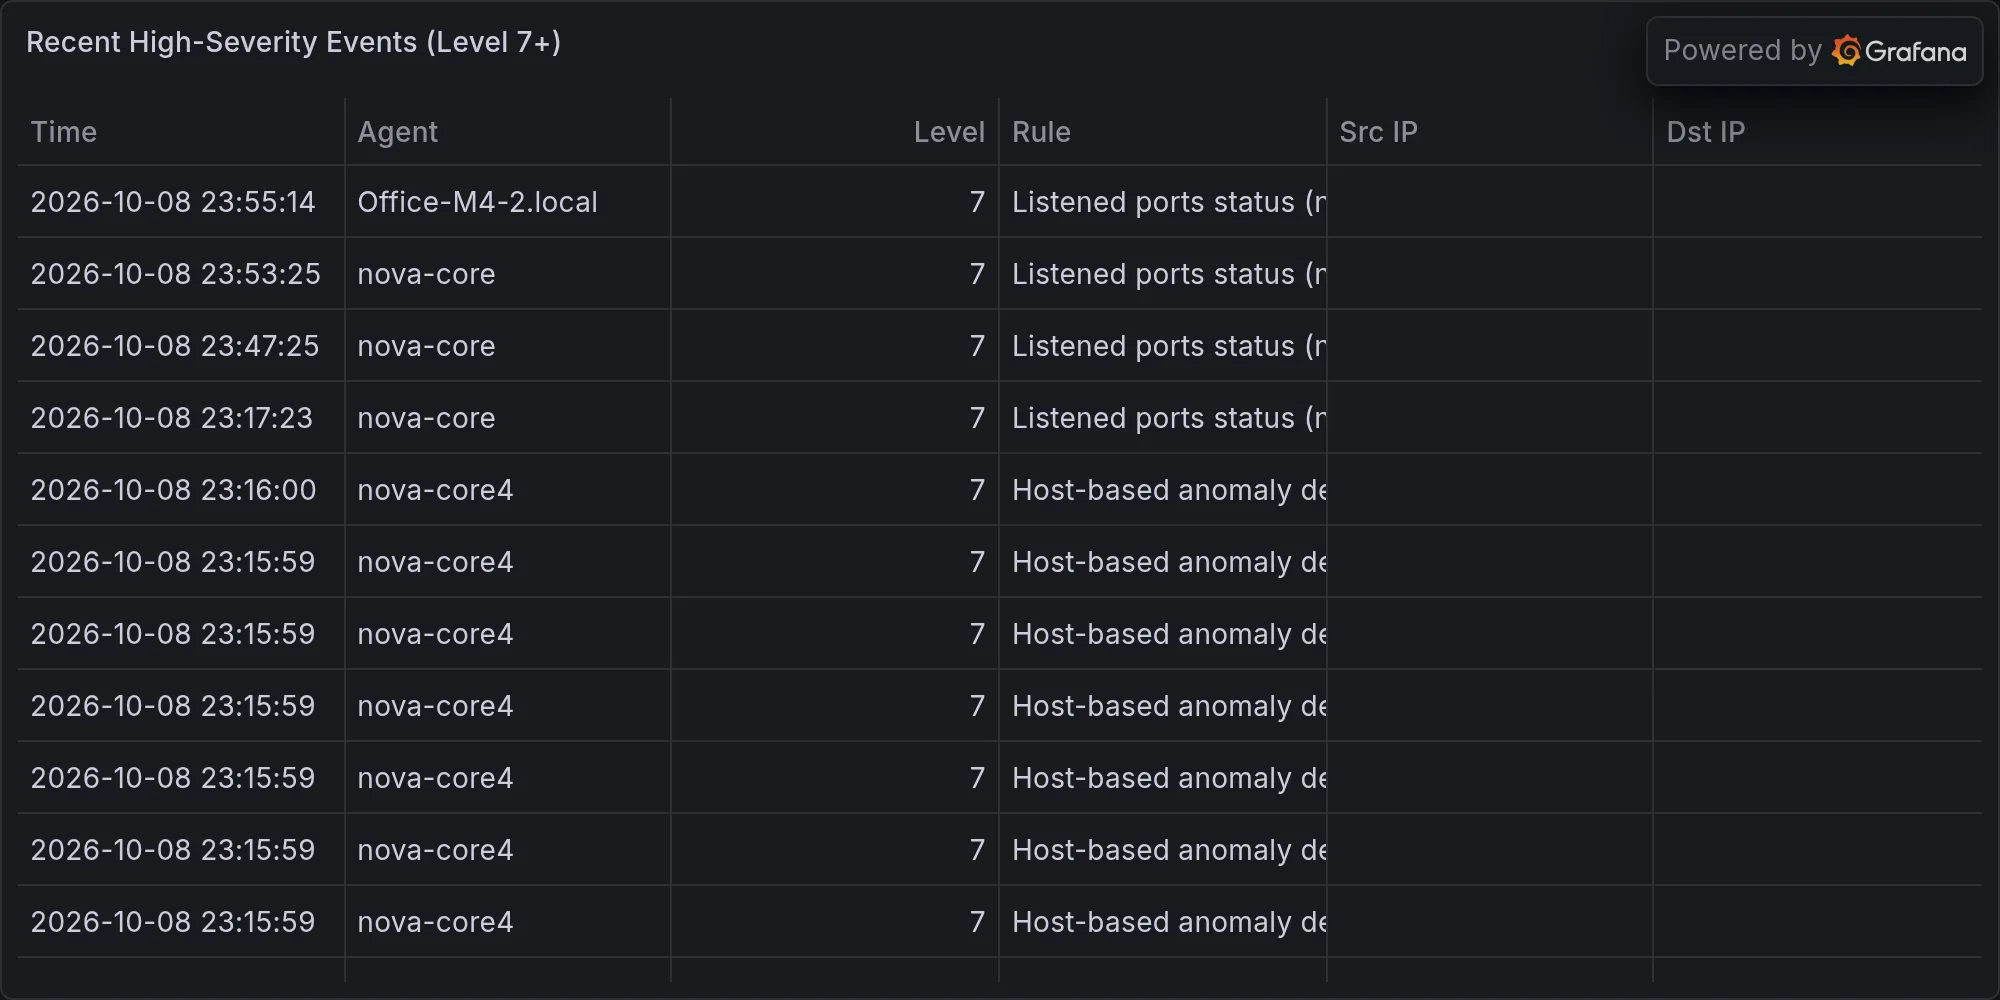
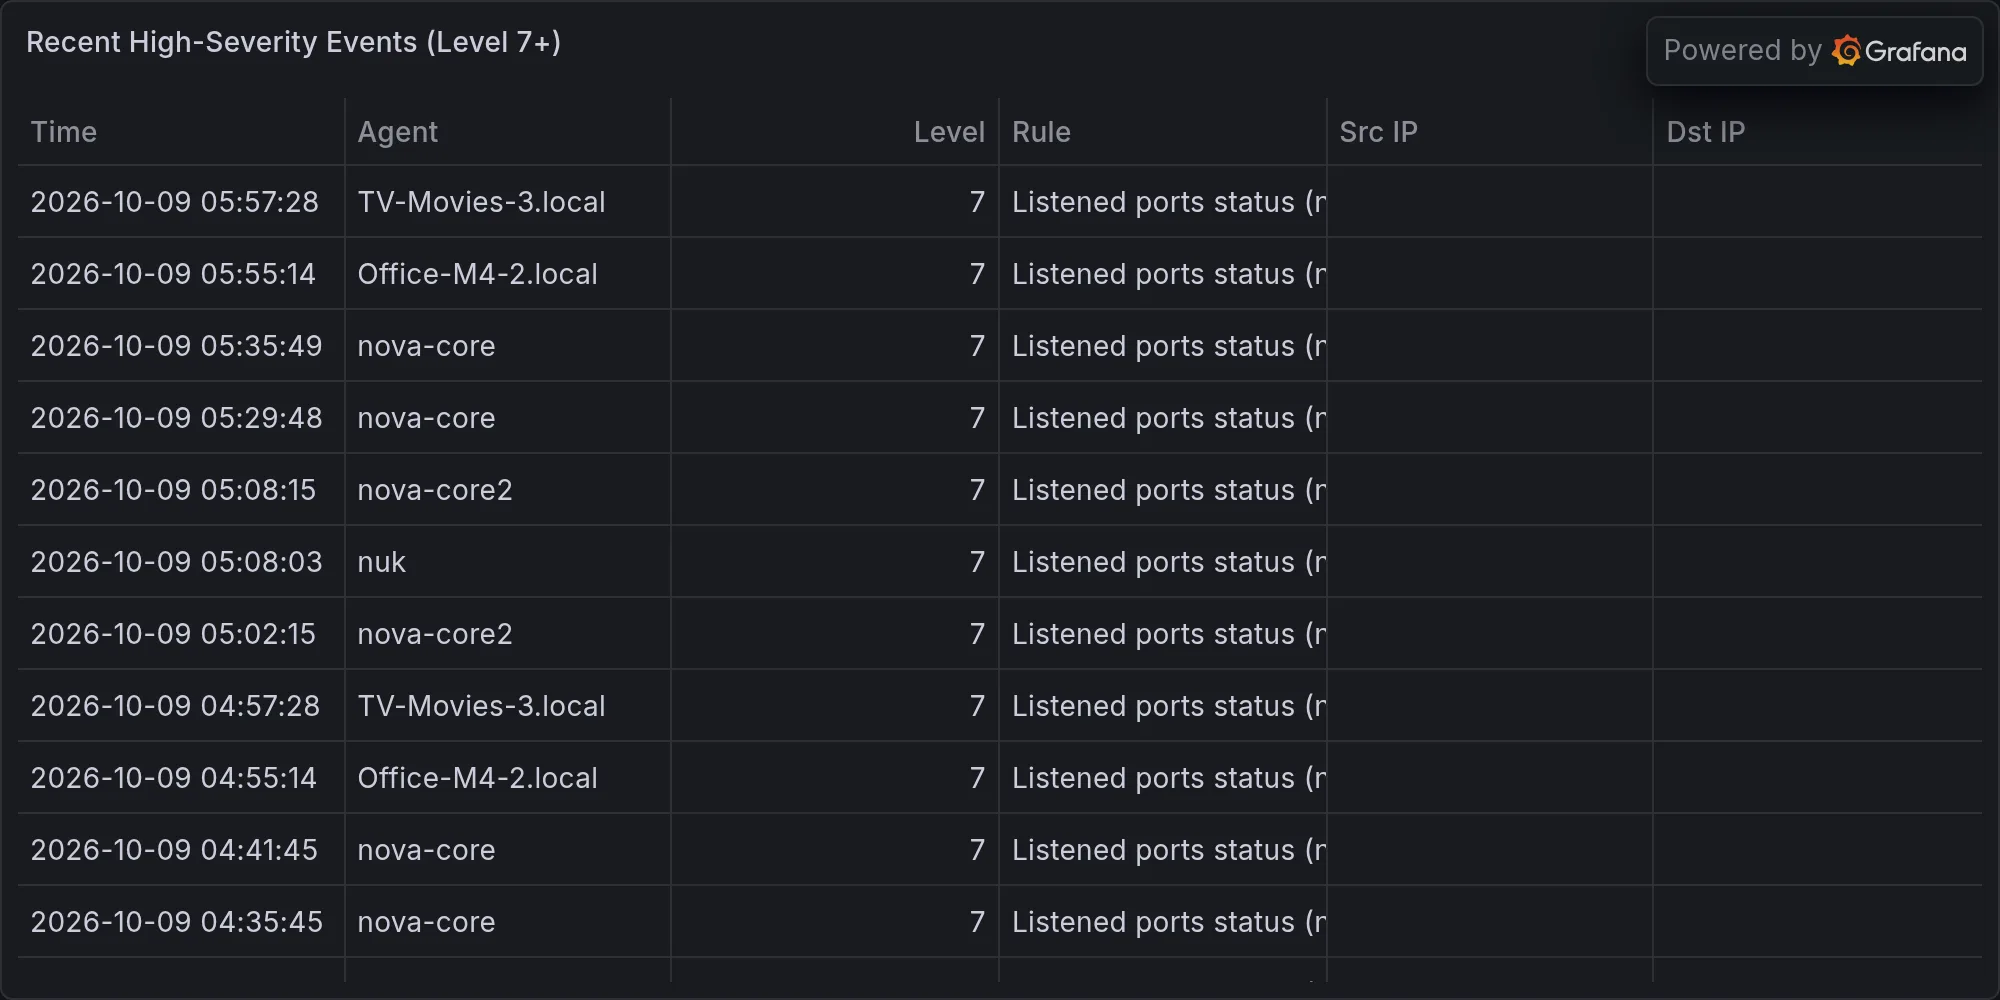
security: 2026-10-09 — **BREAKING: Inbound IPS Attack Blocked at UDM-Pro

diff --git a/content/operations/2026-10-09-breaking-inbound-ips-attack-blocked-at-udm-pro-gateway-192-1.md b/content/operations/2026-10-09-breaking-inbound-ips-attack-blocked-at-udm-pro-gateway-192-1.md
@@ -1,0 +1,49 @@
+---
+title: "🛡 **BREAKING: Inbound IPS Attack Blocked at UDM-Pro Gateway 192.168.1.1, Source Unknown**"
+date: 2026-10-09T06:09:01-07:00
+draft: false
+categories: ["operations"]
+tags: ["breaking-alert", "ips-attack-response-oct-09-06-06-58-rack", "security"]
+description: "BREAKING: IPS: attack_response: Oct 09 06:06:58 Rack14-UDMPro CEF:0|Ubiquiti|UniFi Network|10.6"
+cover:
+  image: "/images/operations/2026-10-09-breaking-inbound-ips-attack-blocked-at-udm-pro-gateway-192-1.webp"
+  alt: "**BREAKING: Inbound IPS Attack Blocked at UDM-Pro Gateway 192.168.1.1, Source Unknown**"
+  relative: false
+---
+
+*Published Friday, October 09, 2026 at 06:09 AM PT*
+
+![**BREAKING: Inbound IPS Attack Blocked at UDM-Pro Gateway 192.168.1.1, Source Unknown**](/images/operations/2026-10-09-breaking-inbound-ips-attack-blocked-at-udm-pro-gateway-192-1.webp)
+
+An inbound intrusion-prevention event targeting 192.168.1.1 (Rack14-UDMPro) was blocked at 06:06:58 on Oct 9. The attacker's source is unidentified, and the material shows no evidence of a successful intrusion. Pull the full IPS record and confirm that no inbound traffic was allowed through.
+
+**DETAILS**
+- Log entry: "IPS: attack_response" from Rack14-UDMPro, Ubiquiti UniFi Network 10.6, timestamp Oct 09 06:06:58 (the log has no year; the date matches 2026-10-09).
+- Recorded fields: type IPS, action **blocked**, direction **inbound**, target 192.168.1.1.
+- Source is recorded as "unknown." The logged excerpt includes no signature name, source IP, port, or protocol.
+- Nova's memory holds recent headlines on an F5 BIG-IP APM zero-day RCE and on Ubiquiti fixing three critical vulnerabilities. The material does not link either to this event, and it does not confirm the affected UniFi versions.
+
+**IMPACT**
+- Direct target: the UDM-Pro gateway at 192.168.1.1.
+- Potential reach: the LAN behind the gateway. Nova's memory places the main Nova host (192.168.1.6) on this network. The subnet boundaries are not confirmed in the material.
+- Blocked means the IPS stopped the event as logged. Nothing in the material shows a successful attack.
+- **Unconfirmed:** attack type, origin, whether it was targeted, and whether any traffic reached the gateway before the block.
+
+**RECOMMENDED ACTIONS**
+1. Pull the full IPS/threat record for Oct 9, 06:06:58, including signature name, source IP, destination port, and protocol.
+2. Check for other IPS events and for any allowed inbound sessions to 192.168.1.1 in the surrounding window.
+3. Confirm the UniFi Network version (logged as 10.6) against Ubiquiti's current advisories and apply any pending fix.
+4. Verify that no WAN port forwards or remote-management services are exposed.
+5. If the source is identified and events repeat, block it upstream.
+
+No action beyond verification is indicated by the available material. Escalate if step 2 finds allowed inbound traffic.
+
+**SOURCES**
+- Internal: UDM-Pro CEF syslog entry, Rack14-UDMPro, Oct 09 06:06:58.
+- Nova memory, reference only (not linked to this event): news4hackers, SecurityWeek, The Register, SecurityAffairs, and SOC Prime coverage of F5 BIG-IP APM; news4hackers coverage of Ubiquiti's three critical fixes.
+
+---
+
+**Recent high-severity events at publish time:**
+
+![Recent high-severity events](/images/operations/2026-10-09-breaking-alert-posture.webp)
